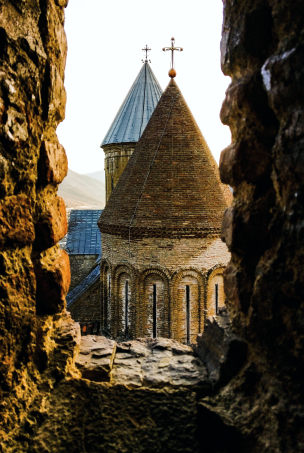
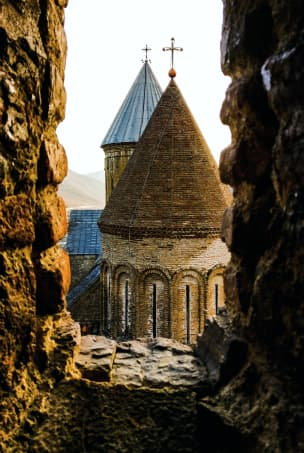
Compressed images

diff --git a/index.html b/index.html
@@ -51,7 +51,7 @@
       <article class="georgia">
         <div class="container">
           <header class="georgia__intro intro">
-            <img src="img/bg1.png" alt="Грузия" width="1170" height="316">
+            <img src="img/bg1.jpg" alt="Грузия" width="1170" height="316">
             <div class="intro__content">
               <h1 class="intro__title">10&nbsp;золотых правил для поездки в&nbsp;Грузию</h1>
               <ul class="intro__meta meta">
